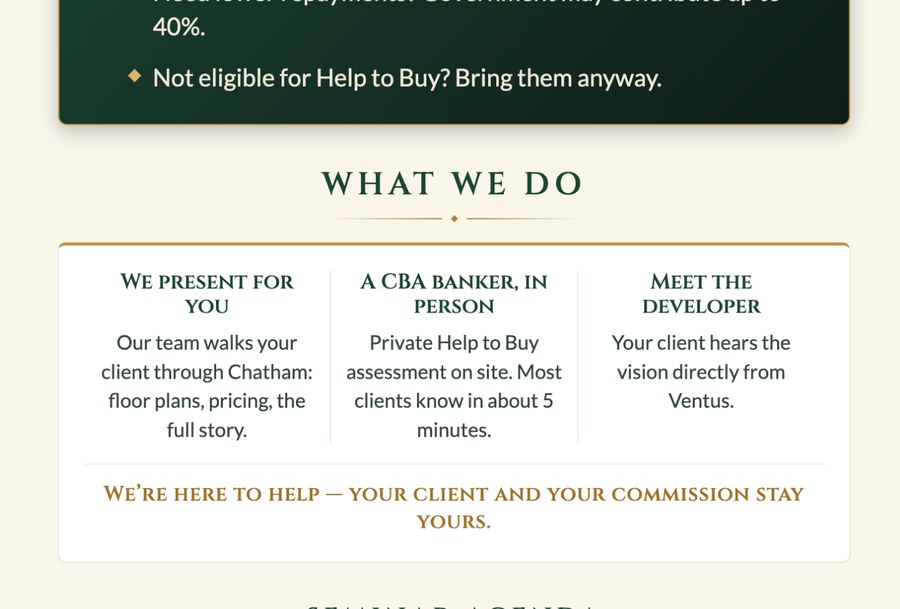
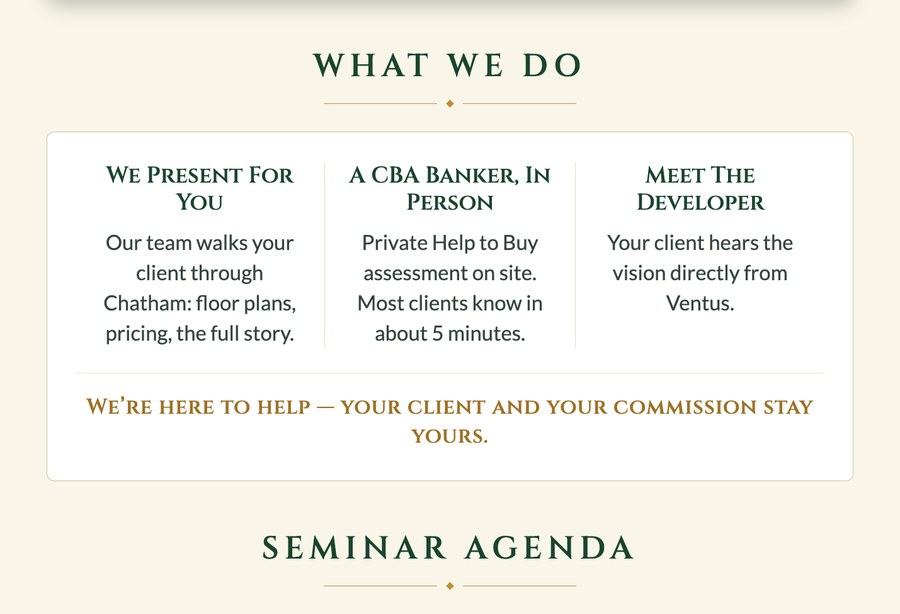
Add files via upload

diff --git a/register.html b/register.html
@@ -497,6 +497,33 @@
             </div>
             <div class="field-error" id="err-propType">Please select a property preference.</div>
           </div>
+
+          <div class="field">
+            <label>Has your client visited the Chatham display or received a project presentation before? <span class="req">*</span></label>
+            <div class="radio-group inline" id="visitedGroup">
+              <label class="radio-option" onclick="selectRadio(this,'visited','no'); toggleUnitField(false)">
+                <input type="radio" name="visited" value="no" required />
+                <span>No</span>
+              </label>
+              <label class="radio-option" onclick="selectRadio(this,'visited','yes'); toggleUnitField(true)">
+                <input type="radio" name="visited" value="yes" />
+                <span>Yes</span>
+              </label>
+              <label class="radio-option" onclick="selectRadio(this,'visited','notsure'); toggleUnitField(false)">
+                <input type="radio" name="visited" value="notsure" />
+                <span>Not sure</span>
+              </label>
+            </div>
+            <div class="field-error" id="err-visited">Please select an option.</div>
+
+            <!-- Unit interest — shown only when Yes selected -->
+            <div id="unitField" style="display:none; margin-top:12px; animation: fadeIn .25s ease;">
+              <label for="unitInterest" style="margin-bottom:6px;">If yes, which unit(s) are they interested in?
+                <span style="font-size:11px; color:var(--muted); font-weight:400; text-transform:none; letter-spacing:0;">(optional)</span>
+              </label>
+              <input type="text" id="unitInterest" name="unitInterest" placeholder="e.g. Unit 302, Unit 415…" />
+            </div>
+          </div>
         </div>
       </div>
 
@@ -818,6 +845,12 @@
       labelEl.classList.add('selected');
     }
 
+    // ─── TOGGLE UNIT FIELD ───
+    function toggleUnitField(show) {
+      document.getElementById('unitField').style.display = show ? 'block' : 'none';
+      if (!show) document.getElementById('unitInterest').value = '';
+    }
+
     // ─── SHOW BUYER SECTION ───
     function showBuyerSection(type) {
       const htb = document.getElementById('htbBlock');
@@ -917,6 +950,7 @@
       const radioChecks = [
         { name: 'attendees', errId: 'err-attendees' },
         { name: 'propType',  errId: 'err-propType'  },
+        { name: 'visited',   errId: 'err-visited'   },
         { name: 'buyerType', errId: 'err-buyerType' },
       ];
       radioChecks.forEach(({ name, errId }) => {
